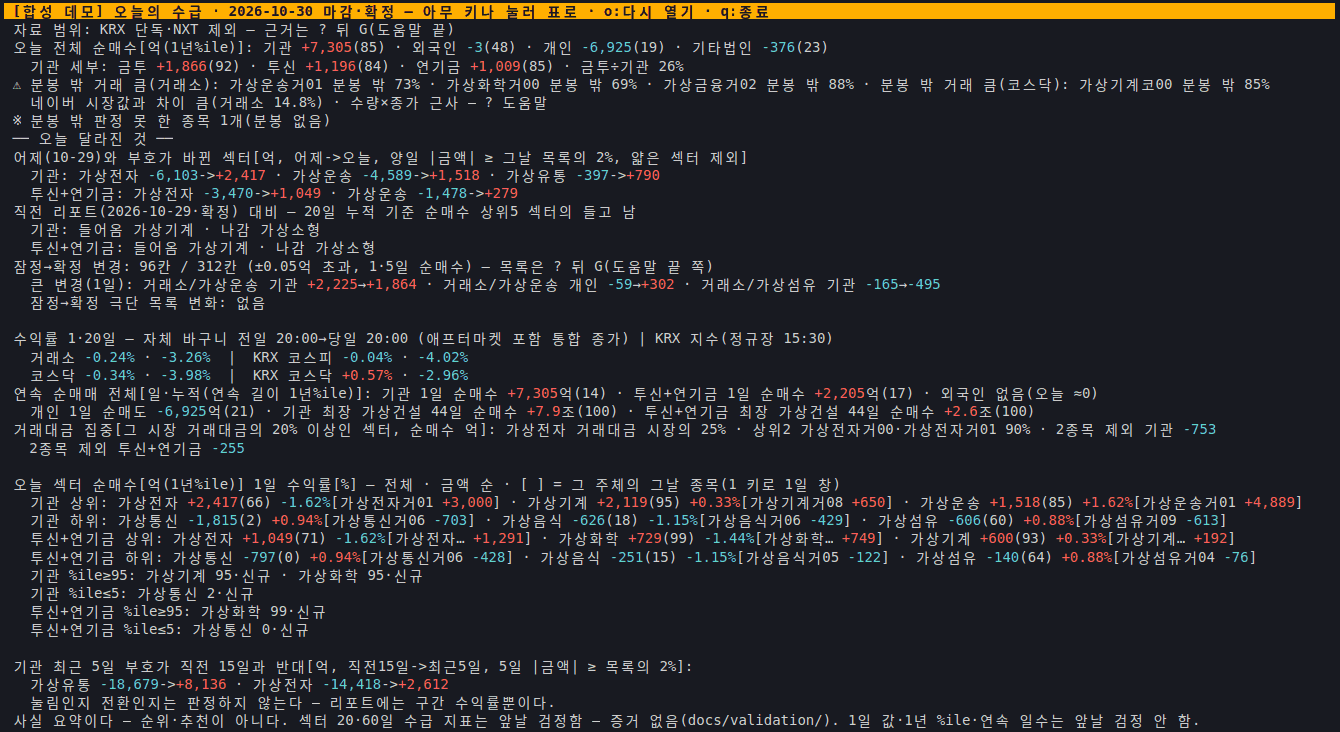
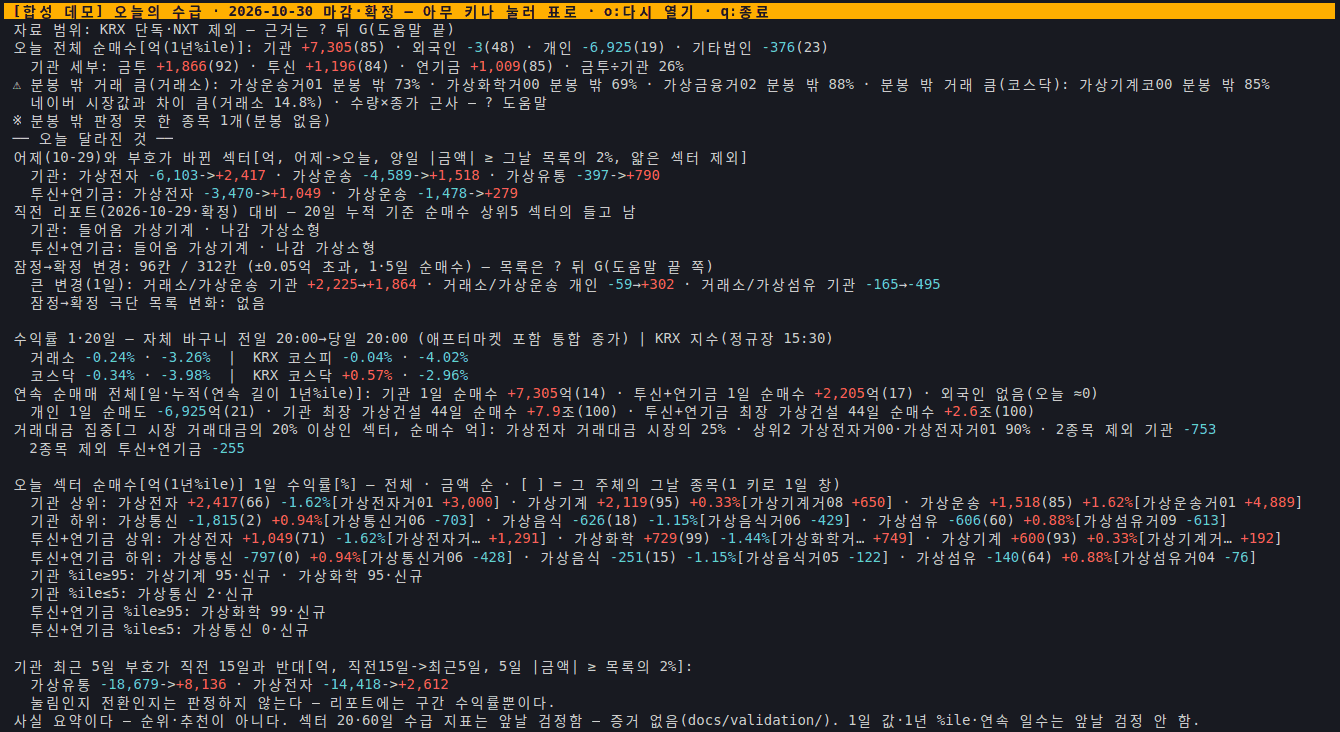
docs(images): 첫 화면 이름 단계 뒤 그림·첨부 A 를 다시 찍는다

Changed region(s): [[0.3366, 0.7213, 0.9485, 0.7514]]

diff --git a/docs/SCREENSHOTS.md b/docs/SCREENSHOTS.md
@@ -15,17 +15,17 @@ uv run --with playwright --with pillow python scripts/demo_shots.py
 
 | 이미지 | 감시 경로 | 찍은 커밋 |
 |---|---|---|
-| docs/images/kqflow-today.png | src/sectorflow/tui/ | 572ef27209224d298c36582329deafce4700e52c |
-| docs/images/kqflow-today.png | src/sectorflow/demo.py | 572ef27209224d298c36582329deafce4700e52c |
-| docs/images/kqflow-table.png | src/sectorflow/tui/ | 572ef27209224d298c36582329deafce4700e52c |
-| docs/images/kqflow-table.png | src/sectorflow/demo.py | 572ef27209224d298c36582329deafce4700e52c |
-| docs/images/kqflow-names.png | src/sectorflow/tui/ | 572ef27209224d298c36582329deafce4700e52c |
-| docs/images/kqflow-names.png | src/sectorflow/demo.py | 572ef27209224d298c36582329deafce4700e52c |
-| docs/images/kqflow-combined.png | src/sectorflow/tui/ | 572ef27209224d298c36582329deafce4700e52c |
-| docs/images/kqflow-combined.png | src/sectorflow/demo.py | 572ef27209224d298c36582329deafce4700e52c |
-| docs/images/kqledger-table.png | src/sectorflow/tui/ | 572ef27209224d298c36582329deafce4700e52c |
-| docs/images/kqledger-table.png | src/sectorflow/demo.py | 572ef27209224d298c36582329deafce4700e52c |
-| docs/images/web-today.png | scripts/templates/ | 572ef27209224d298c36582329deafce4700e52c |
-| docs/images/web-today.png | src/sectorflow/demo.py | 572ef27209224d298c36582329deafce4700e52c |
-| docs/images/web-today-mobile.png | scripts/templates/ | 572ef27209224d298c36582329deafce4700e52c |
-| docs/images/web-today-mobile.png | src/sectorflow/demo.py | 572ef27209224d298c36582329deafce4700e52c |
+| docs/images/kqflow-today.png | src/sectorflow/tui/ | a9d13e9f7f13e3332b41a33d3067c071fe413ca0 |
+| docs/images/kqflow-today.png | src/sectorflow/demo.py | a9d13e9f7f13e3332b41a33d3067c071fe413ca0 |
+| docs/images/kqflow-table.png | src/sectorflow/tui/ | a9d13e9f7f13e3332b41a33d3067c071fe413ca0 |
+| docs/images/kqflow-table.png | src/sectorflow/demo.py | a9d13e9f7f13e3332b41a33d3067c071fe413ca0 |
+| docs/images/kqflow-names.png | src/sectorflow/tui/ | a9d13e9f7f13e3332b41a33d3067c071fe413ca0 |
+| docs/images/kqflow-names.png | src/sectorflow/demo.py | a9d13e9f7f13e3332b41a33d3067c071fe413ca0 |
+| docs/images/kqflow-combined.png | src/sectorflow/tui/ | a9d13e9f7f13e3332b41a33d3067c071fe413ca0 |
+| docs/images/kqflow-combined.png | src/sectorflow/demo.py | a9d13e9f7f13e3332b41a33d3067c071fe413ca0 |
+| docs/images/kqledger-table.png | src/sectorflow/tui/ | a9d13e9f7f13e3332b41a33d3067c071fe413ca0 |
+| docs/images/kqledger-table.png | src/sectorflow/demo.py | a9d13e9f7f13e3332b41a33d3067c071fe413ca0 |
+| docs/images/web-today.png | scripts/templates/ | a9d13e9f7f13e3332b41a33d3067c071fe413ca0 |
+| docs/images/web-today.png | src/sectorflow/demo.py | a9d13e9f7f13e3332b41a33d3067c071fe413ca0 |
+| docs/images/web-today-mobile.png | scripts/templates/ | a9d13e9f7f13e3332b41a33d3067c071fe413ca0 |
+| docs/images/web-today-mobile.png | src/sectorflow/demo.py | a9d13e9f7f13e3332b41a33d3067c071fe413ca0 |
